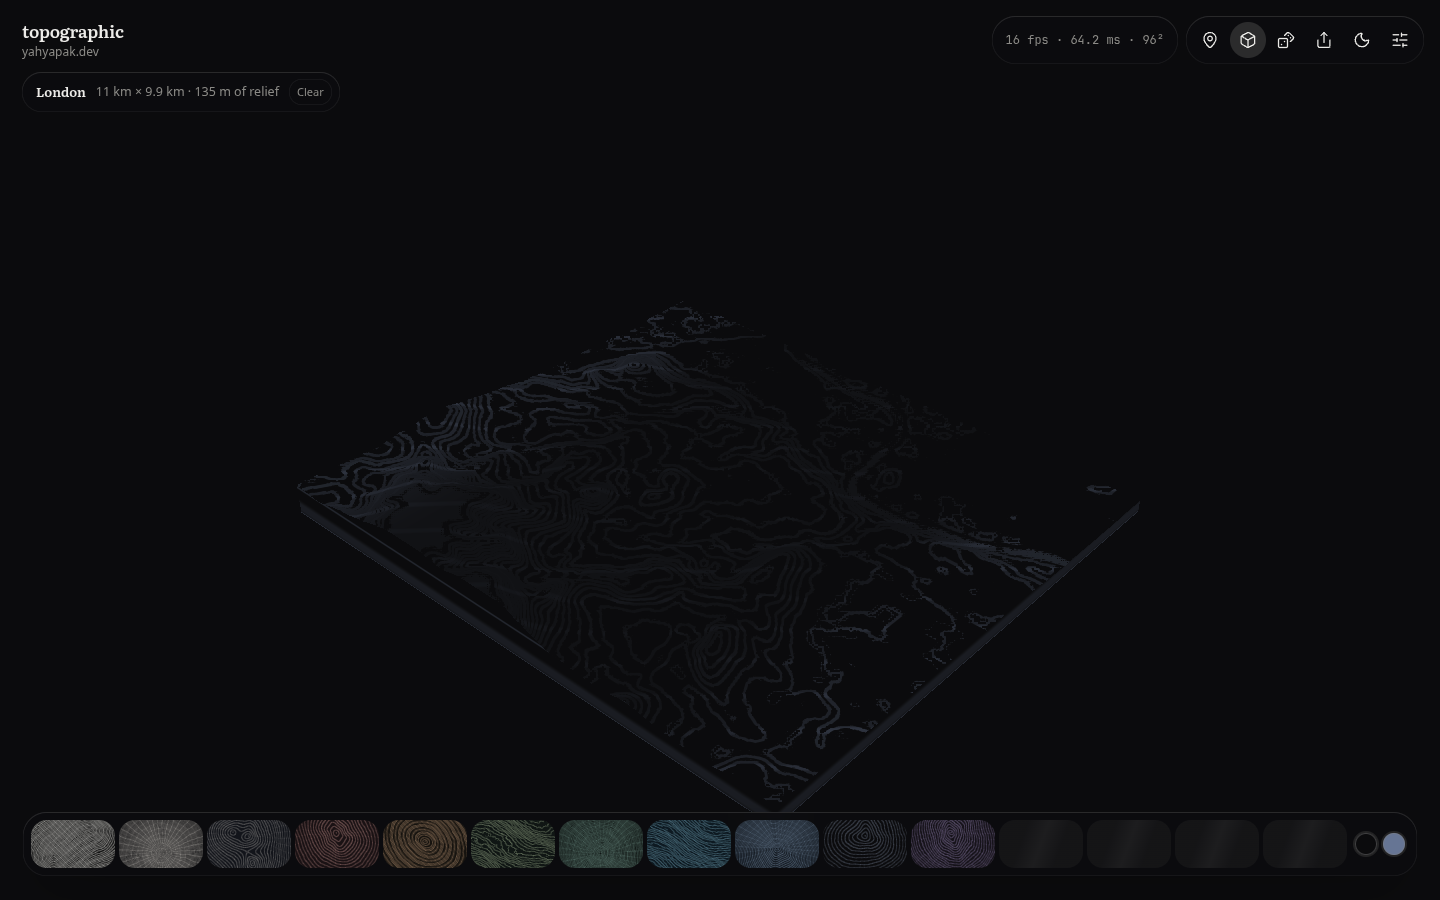
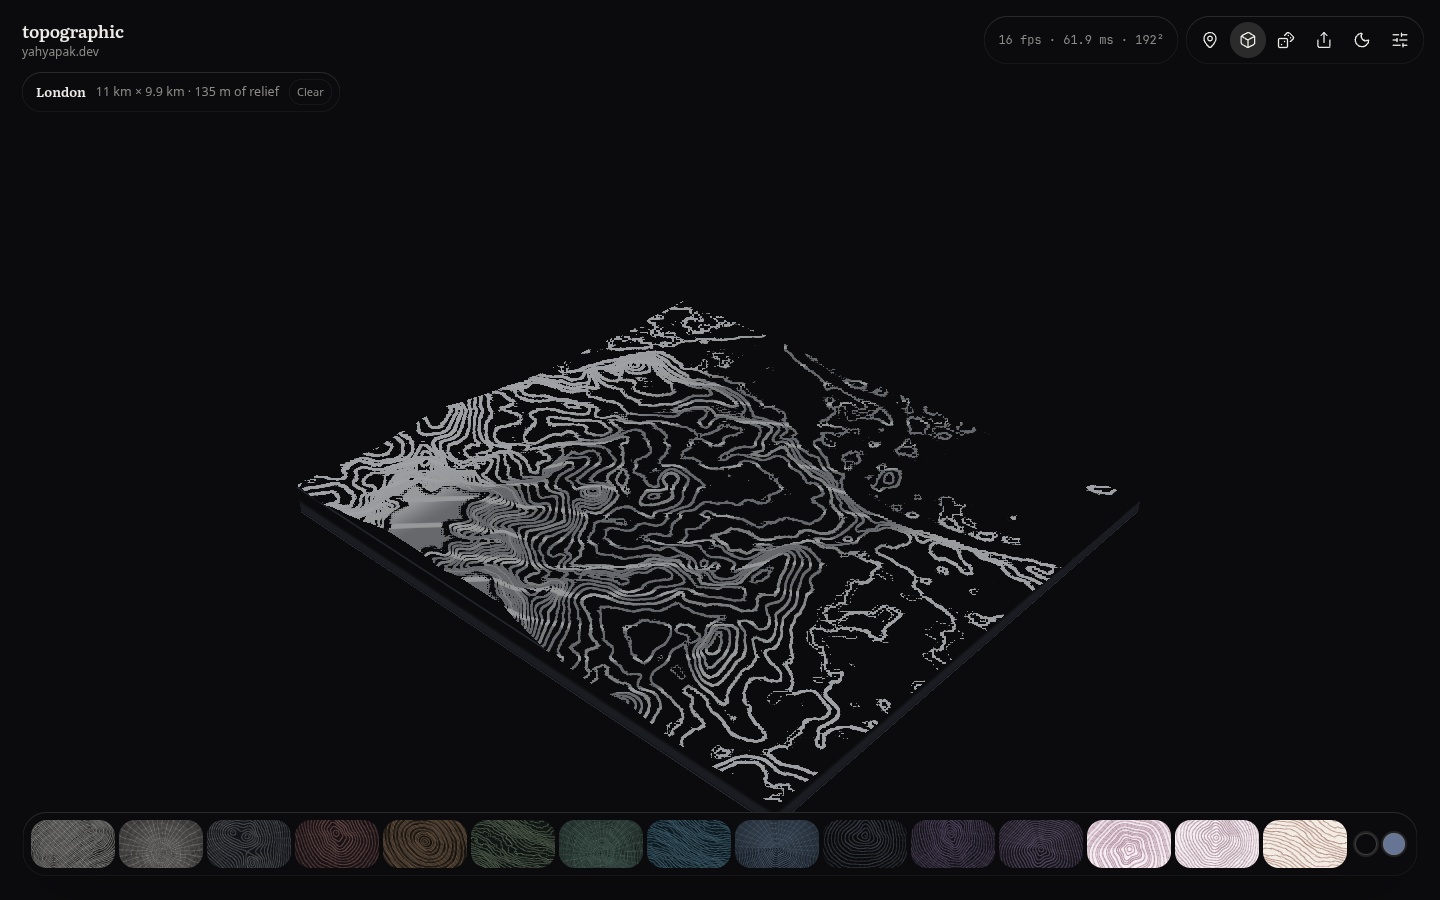
make region terrain read in both themes
- sea stays blank paper after the blur, so the water is not a striped shelf
- a region mesh is at least 192, and heightfield lines are stronger in light and dark
- the dock draws a style only after its thumbnail exists
- the city shots, the sweeps, and a dark and light overview are reshot at elevation 0.1

diff --git a/apps/playground/src/prototype/ui.tsx b/apps/playground/src/prototype/ui.tsx
@@ -201,12 +201,14 @@ export function Dock({ pg }: { pg: Playground }) {
     const start = Math.min(maxStart, Math.max(0, pg.lookIndex - Math.floor((visible - 1) / 2)));
     sc.scrollTo({ left: start * (THUMB + GAP), behavior: 'smooth' });
   }, [pg.lookIndex, visible]);
-  const width = visible * THUMB + Math.max(0, visible - 1) * GAP;
+  const ready = thumbs.reduce((count, url) => count + (url ? 1 : 0), 0);
+  const shown = Math.min(visible, ready);
+  const width = shown > 0 ? shown * THUMB + Math.max(0, shown - 1) * GAP : 0;
   return (
     <div className="pt-dock-wrap" ref={wrap}>
-      <nav className="pt-dock pt-glass" aria-label="Examples">
+      <nav className="pt-dock pt-glass" aria-label="Examples" data-looks={LOOKS.length} data-ready={ready}>
         <div className="pt-thumbs" ref={scroller} style={{ width }}>
-          {LOOKS.map((p, i) => (
+          {LOOKS.map((p, i) => thumbs[i] ? (
             <button
               key={p.name}
               type="button"
@@ -216,11 +218,11 @@ export function Dock({ pg }: { pg: Playground }) {
               onClick={() => pg.applyLook(i)}
             >
               <span className="pt-thumb-media">
-                {thumbs[i] ? <img src={thumbs[i]} alt="" /> : <span className="pt-ph" />}
+                <img src={thumbs[i]} alt="" />
                 <span className="pt-thumb-name" aria-hidden="true">{p.name}</span>
               </span>
             </button>
-          ))}
+          ) : null)}
         </div>
         <div className="pt-dock-tools" ref={tools}>
           <ColorField pg={pg} which="paper" />

diff --git a/packages/core/src/shader/topographic.glsl.ts b/packages/core/src/shader/topographic.glsl.ts
@@ -87,7 +87,10 @@ vec4 contourPaint(int s, vec2 p){
   if(uHasHeight>0.5){
     vec2 uv=regionUv();
     cover=step(0.,uv.x)*step(uv.x,1.)*step(0.,uv.y)*step(uv.y,1.);
-    field=Field(regionSample(uv)*max(n,1.),1.,0.);
+    float h=regionSample(uv);
+    // Sea is exactly 0. Sitting between contours keeps that floor as plain paper.
+    float f=h<0.5/max(n,1.) ? .5 : h*max(n,1.);
+    field=Field(f,1.,0.);
   }
   float f=field.f; float r=field.r; float ang=field.ang;
   float rg=uParams[9], sh=uParams[10], ix=uParams[11], tr=uParams[12], pk=uParams[7];
@@ -101,7 +104,13 @@ vec4 contourPaint(int s, vec2 p){
     ? smoothstep(.75,1.,sin(ang*40.+t*8.*float(s+1)))*l*uParams[4]
     : smoothstep(.75,1.,sin((p.x+p.y)*60.+t*8.))*l*uParams[4];
   float m=shaped ? colMask(p)*smoothstep(2.2,.1,r)*a : colMask(p);
-  vec4 ink=paint(c,(l*.75+beads*.7)*uParams[2]*m);
+  float lineAmp=(l*.75+beads*.7)*uParams[2]*m;
+  if(uHasHeight>0.5) lineAmp*=mix(2.2,2.8,uDark);
+  vec4 ink=paint(c,lineAmp);
+  if(uHasHeight>0.5){
+    vec3 strong=mix(min(c,vec3(.42)), max(c,vec3(.72)), uDark);
+    ink.rgb=mix(ink.rgb, strong, .78*smoothstep(.05,.4,lineAmp));
+  }
   return mix(vec4(uPaper.rgb,uPaper.a), ink, cover);
 }
 `;

diff --git a/packages/core/src/settings.test.ts b/packages/core/src/settings.test.ts
@@ -2,7 +2,7 @@ import { afterEach, describe, expect, it, vi } from 'vitest';
 import { PARAMS } from './params.js';
 import { PRESETS } from './presets.js';
 import { STYLES } from './styles.js';
-import { fromAttributes, fromQuery, mergeSettings, meshResolution, resetWarnings, resolveSettings, toAttributes, toQuery, toUniforms } from './settings.js';
+import { fromAttributes, fromQuery, mergeSettings, meshResolution, resetWarnings, resolveSettings, terrainSegments, toAttributes, toQuery, toUniforms } from './settings.js';
 
 afterEach(() => { resetWarnings(); vi.restoreAllMocks(); });
 
@@ -56,6 +56,9 @@ describe('view settings', () => {
     expect(meshResolution(0)).toBe(32);
     expect(meshResolution(s.detail)).toBe(96);
     expect(meshResolution(1)).toBe(160);
+    expect(terrainSegments(s.detail, false)).toBe(96);
+    expect(terrainSegments(s.detail, true)).toBe(192);
+    expect(terrainSegments(1, true)).toBe(192);
   });
   it('clamps the camera above the horizon and keeps 2d values', () => {
     const s = resolveSettings({ mode: '3d', elevation: 4, extent: 'endless', camera: { elevation: -20, radius: 99, azimuth: 400.26 } });

diff --git a/packages/core/src/terrain3d.ts b/packages/core/src/terrain3d.ts
@@ -1,6 +1,6 @@
 import { viewProjection, type Pose } from './camera.js';
 import { sampleGrid, type Heightfield } from './heightfield.js';
-import { meshResolution, toUniforms, type Settings } from './settings.js';
+import { terrainSegments, toUniforms, type Settings } from './settings.js';
 import { terrainFragmentSource, terrainVertexSource } from './shader/terrain.glsl.js';
 import type { ResolvedTheme } from './theme.js';
 
@@ -166,7 +166,7 @@ export function createTerrainPass(): TerrainPass {
     draw(gl, webgl2, frame) {
       if (!init(gl, webgl2) || !program) return;
       const { settings, theme, pose } = frame;
-      const nextSegments = meshResolution(settings.detail);
+      const nextSegments = terrainSegments(settings.detail, Boolean(frame.field));
       const nextBlock = settings.extent === 'block';
       gl.useProgram(program);
       if (nextSegments !== segments || nextBlock !== block || frame.heightVersion !== builtHeight) {

diff --git a/apps/playground/src/prototype/region/pipeline.ts b/apps/playground/src/prototype/region/pipeline.ts
@@ -295,12 +295,16 @@ export function shapeField(
     span = Math.max(reliefM, MEASURED_RELIEF_M);
   }
   const unit = new Float32Array(clamped.length);
+  const sea = new Uint8Array(meters.length);
   for (let i = 0; i < clamped.length; i++) {
+    sea[i] = meters[i] <= 0 ? 1 : 0;
     unit[i] = Math.min(1, Math.max(0, (clamped[i] - lo) / span));
   }
   const extra = reliefM < 12 ? 1.8 : reliefM < 30 ? 1.25 : 1;
   const samples = smooth(unit, size, SMOOTH_SIGMA[level] * extra);
-  for (let i = 0; i < samples.length; i++) samples[i] = Math.min(1, Math.max(0, samples[i]));
+  for (let i = 0; i < samples.length; i++) {
+    samples[i] = sea[i] ? 0 : Math.min(1, Math.max(0, samples[i]));
+  }
   return { samples, size, aspect: spanOf(bbox).aspect, minM, maxM, reliefM };
 }
 

diff --git a/packages/core/src/index.ts b/packages/core/src/index.ts
@@ -5,7 +5,7 @@ export { STYLES, DEFAULT_STYLE, findStyle, type Style, type StyleId } from './st
 export { PRESETS, type Preset } from './presets.js';
 export {
   defaultSettings, resolveSettings, mergeSettings, toUniforms, fromAttributes, toAttributes, toQuery, fromQuery,
-  meshResolution, CAMERA_MOTIONS, DEFAULT_CAMERA, DEFAULT_DETAIL, DEFAULT_ELEVATION,
+  meshResolution, terrainSegments, CAMERA_MOTIONS, DEFAULT_CAMERA, DEFAULT_DETAIL, DEFAULT_ELEVATION,
   type Settings, type SettingsInput, type ThemeSettings, type ThemeMode,
   type RenderMode, type TerrainExtent, type CameraMotion, type CameraSettings,
 } from './settings.js';

diff --git a/packages/core/src/settings.ts b/packages/core/src/settings.ts
@@ -80,6 +80,12 @@ export function meshResolution(detail: number): number {
   return Math.round(32 + t * 128);
 }
 
+/** A real place uses a finer mesh than the procedural default so the coast stays smooth. */
+export function terrainSegments(detail: number, hasField: boolean): number {
+  const base = meshResolution(detail);
+  return hasField ? Math.max(base, 192) : base;
+}
+
 function clampCamera(input: Partial<CameraSettings> | undefined, base: CameraSettings): CameraSettings {
   const src = input ?? {};
   const motion = src.motion === undefined ? base.motion

diff --git a/packages/core/src/shader/terrain.glsl.ts b/packages/core/src/shader/terrain.glsl.ts
@@ -81,7 +81,8 @@ void main(){
   vec3 n=cross(dFdx(vWorld), dFdy(vWorld));
   float lenN=length(n);
   float ndl=lenN>1e-5 ? abs(dot(n/lenN, normalize(vec3(-.32,.88,.36)))) : 1.;
-  color.rgb*=mix(.76,1.,ndl);
+  float floorShade=uHasHeight>0.5 ? .9 : .76;
+  color.rgb*=mix(floorShade,1.,ndl);
   OUT_COLOR=color;
 }
 `;

diff --git a/apps/playground/src/prototype/region/pipeline.test.ts b/apps/playground/src/prototype/region/pipeline.test.ts
@@ -113,6 +113,8 @@ describe('resample and shape', () => {
     const shaped = shapeField(meters, 4, bbox, 'dramatic', 'light');
     expect(shaped.minM).toBe(0);
     expect(shaped.maxM).toBe(80);
+    expect(shaped.samples[0]).toBe(0);
+    expect(shaped.samples[4]).toBe(0);
   });
 });
 

diff --git a/docs/prototypes/region/README.md b/docs/prototypes/region/README.md
@@ -30,21 +30,22 @@ node apps/playground/src/prototype/region/shots.mjs http://127.0.0.1:5173/ docs/
 
 ## What the pictures show
 
-Same style throughout: gentle summit, 28 lines, dark paper. 3D opens at elevation 0.1.
+Same style throughout: gentle summit, 28 lines. The `*-2d.png` and `*-3d.png` files are dark paper. Each `*-3d-light.png` is that same view on light paper. 3D opens at elevation 0.1.
 
 | File | What it is |
 |---|---|
-| `istanbul-2d.png`, `istanbul-3d.png` | The historic peninsula and the Bosphorus, about 11 km by 9.9 km, 260 m of relief. |
-| `san-francisco-2d.png`, `san-francisco-3d.png` | The peninsula hills, about 11 km by 11 km, 282 m of relief. |
-| `london-2d.png`, `london-3d.png` | The Thames and the northern rise, about 11 km by 9.9 km, 135 m of relief. |
-| `new-york-2d.png`, `new-york-3d.png` | Lower Manhattan and the rivers, about 12 km by 9.9 km, 78 m of relief. |
+| `cities-overview.png` | The four cities in 3D, dark paper on the top row and light paper on the bottom, at elevation 0.1. |
+| `istanbul-2d.png`, `istanbul-3d.png`, `istanbul-3d-light.png` | The historic peninsula and the Bosphorus, about 11 km by 9.9 km, 260 m of relief. |
+| `san-francisco-2d.png`, `san-francisco-3d.png`, `san-francisco-3d-light.png` | The peninsula hills, about 11 km by 11 km, 282 m of relief. |
+| `london-2d.png`, `london-3d.png`, `london-3d-light.png` | The Thames and the northern rise, about 11 km by 9.9 km, 135 m of relief. |
+| `new-york-2d.png`, `new-york-3d.png`, `new-york-3d-light.png` | Lower Manhattan and the rivers, about 12 km by 9.9 km, 78 m of relief. |
 | `elevation-sweep-istanbul.png` | Istanbul at 0.05, 0.1, 0.15, 0.2, 0.3 and 0.62. |
 | `elevation-sweep-san-francisco.png` | The same sweep for San Francisco. |
 | `elevation-sweep-london.png` | The same sweep for London. |
 | `elevation-sweep-new-york.png` | The same sweep for New York. |
 | `picker-frame.png`, `picker-rectangle.png` | The two ways to choose the rectangle. |
 
-The heights are bare earth. The contours are the ground, and the buildings are absent. Sea water is clamped to a flat floor, which is why the Bosphorus, the bay, the Thames and the Hudson sit level.
+The heights are bare earth. The contours are the ground, and the buildings are absent. Sea water is put back to zero after the blur, and the contour shader sits that floor between the lines, so the Bosphorus, the bay, the Thames and the Hudson are blank paper rather than a striped shelf.
 
 A load of one of these cities took about 6 seconds in this browser. Almost all of that is fetching the PNG tiles.
 
@@ -82,6 +83,8 @@ Ten percent off those times is about a millisecond. An order of magnitude would 
 
 **Renderer.** The region replaces the procedural landform through `setHeightfield`. The style still sets line count, width, opacity, index, grain and colour. A real place holds its shape while you change style, and it holds still while motion is on. Block and endless, the camera, snapshot and record are the same controls as the 3D prototype. 2D fits the region inside the view and leaves paper around it. 3D uses the region's aspect for the footprint.
 
+A region mesh is at least 192 by 192. The detail slider still tops out at 160 for procedural terrain. On the software renderer used for these screenshots, that mesh was about 15 fps and 60 to 75 ms. The same gaussian still rounds the crests, so the finer grid follows the smooth field. Heightfield lines are strengthened so a gentle city reads on both papers: about 2.2 times in light mode and 2.8 times in dark mode, then pulled toward a darker ink on light paper and a lighter ink on dark paper. 3D lighting on a heightfield eases off (a floor of 0.9 instead of 0.76) so a flat city is not crushed. The dock draws a style only after its thumbnail exists.
+
 **Agents.** The dev page registers `set_region`, `get_region` and `clear_region` with WebMCP. The published tool list is unchanged. `llms.txt` and `docs/webmcp.md` describe the bbox and those tools. `set_region` accepts `place` (`istanbul`, `san-francisco`, `london`, `new-york`), the four edges, a `bbox` array, or a `region` string, plus optional `relief` and `smooth`.
 
 ## Attribution
@@ -112,5 +115,6 @@ These are in the UI and the screenshots so they can be chosen by looking.
 5. Should a style keep warping the landform, or stay on the line treatment? A real place currently keeps the elevation shape.
 6. Should this leave the prototype? The production build still omits the dock.
 7. Is a 2017 bare-earth archive the right source for a fun map? It has no buildings.
+8. Is 192 the right region mesh, or should the detail slider drive it the way it drives procedural terrain?
 
 Looking at the screenshots is enough to answer these. Running it needs no API key.
